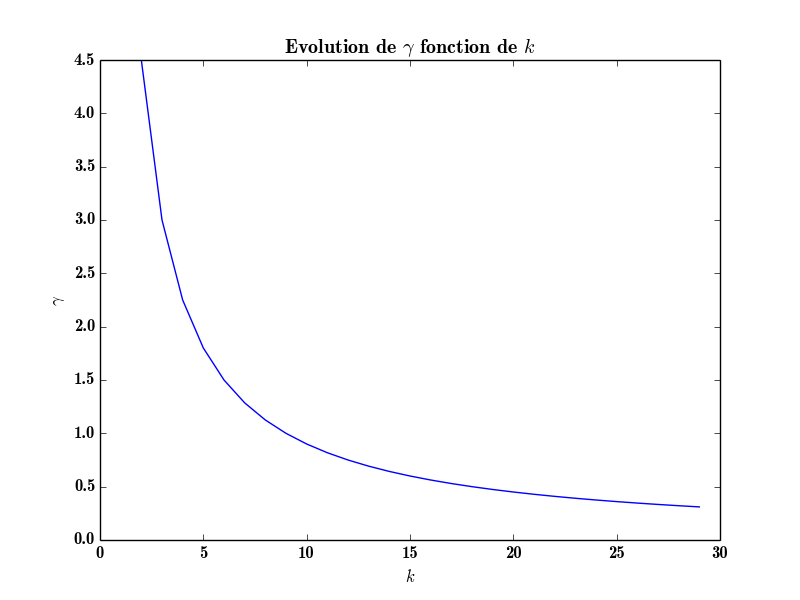
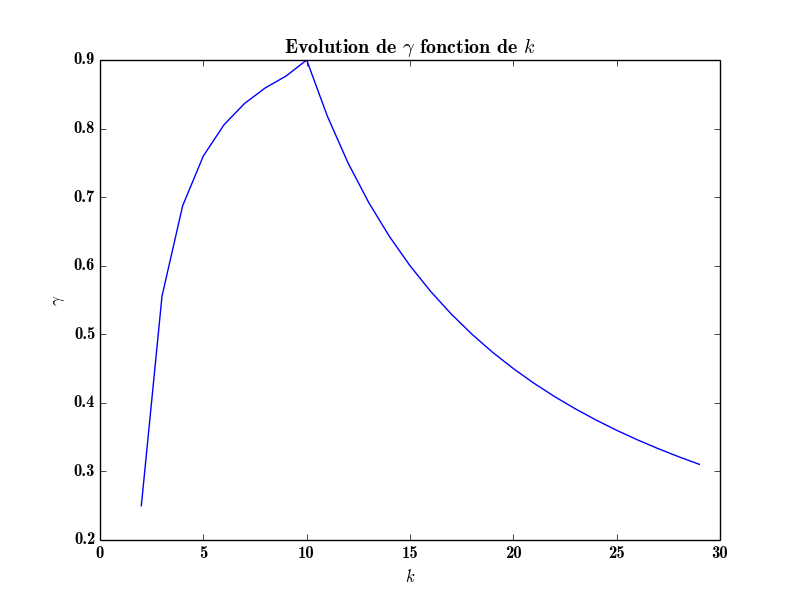
Add H3 - Regeneration of all graphics

diff --git a/graph.py b/graph.py
@@ -91,9 +91,60 @@ class Graph:
 		return (wSV + wVT + 2*self.k*max(wSV, wVT))/float(wMin)
 
 	def H(self, wSV, wVT, wMin, l1, l2):
-		return max(self.h1(wSV, wMin, l1), self.h2(wSV, wVT, wMin, l2), self.h3(wSV, wVT, wMin))
+		return max(self.h1(wSV, wMin, l1), self.h2(wSV, wVT, wMin, l2))
 
 	# Determination of gamma with the given algorithm and some temporals improvements
+
+	def getL2(self, dg, M, wMin):
+		wVTp = 0
+		wVTs = 0
+		l2 = 0
+		while ((wVTs - wVTp < wMin) and (l2 < M)):
+			dg.minFlowStep()
+			wVTp = wVTs
+			wVTs = dg.getCost()
+			l2 += 1
+
+		if(l2 == M and (wVTs - wVTp < wMin)):
+			return (l2, wVTs/float(l2))
+		else:
+			return (l2-1, wVTp/float(l2-1))
+
+	def getL1withL2(self, dg, M, wMin, wVT, l2):
+		wSVp = 0
+		wSVs = 0
+		l = 0
+		while(l == 0 or (wSVs - wSVp < wMin and self.h1(wSVs/float(l), wMin, l) > self.h2(wSVs/float(l), wVT, wMin, l2) and l < M)):
+			dg.minFlowStep()
+			wSVp = wSVs
+			wSVs = dg.getCost()
+			l += 1
+		wSV = 0
+		if(wSVs - wSVp >= wMin):
+			return (l-1, wSVp/float(l-1))
+		else:
+			if(self.h1(wSVs/float(l), wMin, l) <= self.h2(wSVs/float(l), wVT, wMin, l2)):
+				if(l != 1 and self.h1(wSVp/float(l-1), wMin, l-1) <= self.h2(wSVs/float(l), wVT, wMin, l2)):
+					return (l-1, wSVp/float(l-1))
+				else:
+					return (l, wSVs/float(l))
+			else:
+				return (l, wSVs/float(l))
+
+	def getL1withoutL2(self, dg, M, wMin):
+		wSVp = 0
+		wSVs = 0
+		l = 0
+		while(l == 0 or (wSVs - wSVp < wMin and l < M)):
+			dg.minFlowStep()
+			wSVp = wSVs
+			wSVs = dg.getCost()
+			l += 1
+		wSV = 0
+		if(wSVs - wSVp >= wMin):
+			return (l-1, wSVp/float(l-1))
+		else:
+			return (l, wSVs/float(l))
 
 	def gamma(self):
 		Hmin = np.full(self.n, np.inf)
@@ -111,55 +162,28 @@ class Graph:
 				#Creation of the directed graphs
 				dg1 = DirectedGraph(self.n, self.edges, self.weight, self.s, v)
 				dg2 = DirectedGraph(self.n, self.edges, self.weight, v, self.t)
-
 				M1 = dg1.fordFulkerson()
 				M2 = dg2.fordFulkerson()
-
 				if(M1 > self.k and M2 > self.k):
-					print("lol")
-				else:
-					M1 = min(M1, self.k)
-					M2 = min(M2, self.k)
-					w1 = dMin[v]
-					wVTp = 0
-					wVTs = 0
-					l2 = 0
-					while ((wVTs - wVTp < wMin) and (l2 < M2)):
+					for j in range(self.k+1):
+						dg1.minFlowStep()
 						dg2.minFlowStep()
-						wVTp = wVTs
-						wVTs = dg2.getCost()
-						l2 += 1
-					wVt = 0
-					if(l2 == M2 and (wVTs - wVTp < wMin)):
-						wVT = wVTs/float(l2)
-					else:
-						l2 -= 1
-						wVT = wVTp/float(l2)
-					if(self.h2(w1, wVT, wMin, l2) < 2*self.k+1):
-						wSVp = 0
-						wSVs = 0
-						l1 = 0
-						while(l1 == 0 or (wSVs - wSVp < wMin and self.h1(wSVs/float(l1), wMin, l1) > self.h2(wSVs/float(l1), wVT, wMin, l2) and l1 < M1)):
-							dg1.minFlowStep()
-							wSVp = wSVs
-							wSVs = dg1.getCost()
-							l1 += 1
-						wSV = 0
-						if(wSVs - wSVp >= wMin):
-							l1 -= 1
-							wSV = wSVp/float(l1)
-						else:
-							if(self.h1(wSVs/float(l1), wMin, l1) <= self.h2(wSVs/float(l1), wVT, wMin, l2)):
-								if(l1 != 1 and self.h1(wSVp/float(l1-1), wMin, l1-1) <= self.h2(wSVs/float(l1), wVT, wMin, l2)):
-									l1 -= 1
-									wSV = wSVp/float(l1)
-								else:
-									wSV = wSVs/float(l1)
-							else:
-								wSV = wSVs/float(l1)
+					wSV = dg1.getCost()/float(self.k)
+					wVT = dg2.getCost()/float(self.k)
+					Hmin[v] = self.h3(wSV, wVT, wMin)
+				elif(M1 > self.k):
+					(l2, wVT) = self.getL2(dg2, M2, wMin)
+					Hmin[v] = self.h2(dMin[v], wVT, wMin, l2)
+				elif(M2 > self.k):
+					(l1, wSV) = self.getL1withoutL2(dg1, M1, wMin)
+					Hmin[v] = self.h1(wSV, wMin, l1)
+				else:
+					(l2, wVT) = self.getL2(dg2, M2, wMin)
+					if(self.h2(dMin[v], wVT, wMin, l2) < 2*self.k+1):
+						(l1, wSV) = self.getL1withL2(dg1, M1, wMin, wVT, l2)
 						Hmin[v] = self.H(wSV, wVT, wMin, l1, l2)
 			i += 1
 		gamma = np.maximum(((2*self.k+1) - Hmin)/float(self.k), 0)
 		#gamma = Hmin
-		print(gamma)
+		#print(gamma)
 		return gamma

diff --git a/test.py b/test.py
@@ -2,6 +2,7 @@ from drawer import *
 from graphConstruct import *
 from graph import Graph
 from math import sqrt
+import time
 
 import numpy as np
 from delaunay2D import Delaunay2D
@@ -23,7 +24,6 @@ def gammaMapGrid(n, k, d):
 	gamma = g.gamma()
 
 	printGrid("gammaMapGrid-"+str(n)+"-"+str(k)+"-"+str(d), n, 1, gamma.reshape((n, n)))
-	print(g.t)
 
 def gammaMapCompleteGrid(n, k, d):
 	g = getCompleteGridGraph(n-1, n-1, k, d)
@@ -44,6 +44,7 @@ def gammaRandomGraph(n, k, nbTest, nbProba):
 	resultL = []
 	for i in range(nbProba//5, nbProba):
 		tab = []
+		t1 = time.clock()
 		for j in range(nbTest):
 			p = delta*i
 			g = getErdosRenyi(n, p, k, 1, 4)
@@ -53,7 +54,8 @@ def gammaRandomGraph(n, k, nbTest, nbProba):
 		resultM.append(m)
 		resultP.append(m+t)
 		resultL.append(m-t)
-
+		t2 = time.clock()
+		print(t2-t1)
 	printCourb("gammaRandom", nbProba//5, nbProba, [resultM, resultP, resultL], r'$p$', r'$\gamma$', r'Evolution de $\gamma$ fonction de $p$')
 
 
@@ -70,8 +72,8 @@ def interval95(tab, n):
 	return 2*standardDeviation(tab, n)/sqrt(n)
 
 def main():
-	#gammaFunctionOfK(getDoubleNodeDisjointGraph(10, 10, 12), 2, 30)
-	#gammaRandomGraph(20, 10, 100, 30)
-	gammaMapCompleteGrid(25, 10, 2)
+	gammaFunctionOfK(getDoubleNodeDisjointGraph(10, 10, 12), 2, 30)
+	#gammaRandomGraph(25, 10, 500, 30)
+	#gammaMapGrid(10, 10, 0)
 
 main()

diff --git a/graphConstruct.py b/graphConstruct.py
@@ -69,10 +69,10 @@ def getErdosRenyi(n, p, k, w1, w2):
 	while(0 in c):
 		# We create a random graph
 		g = Graph(n, k)
-		for i in range(n):
+		for i in range(0, n):
 			for j in range(i+1, n):
-				if (uniform(0, 1) < p):
-					g.addEdge(i, j, randint(w1, w2))
+				if (not(i == 0 and j == n-1) and uniform(0, 1) < p):
+					g.addEdge(i, j, 1)
 
 		# We verify the graph is connected
 		# c : array reprensenting the connected component
@@ -85,7 +85,7 @@ def getErdosRenyi(n, p, k, w1, w2):
 			j = stack.pop()
 			if(c[j] == 0):
 				c[j] = 1
-				for i, w in g.E[j]:
+				for i in g.edges[j]:
 					stack.append(i)
 	g.setSource(0)
 	g.setSink(n-1)

diff --git a/drawer.py b/drawer.py
@@ -1,5 +1,8 @@
-import matplotlib
-matplotlib.use('Agg')
+try:
+	import matplotlib
+	matplotlib.use('Agg')
+except:
+	pass
 
 import matplotlib.pyplot as plt
 
